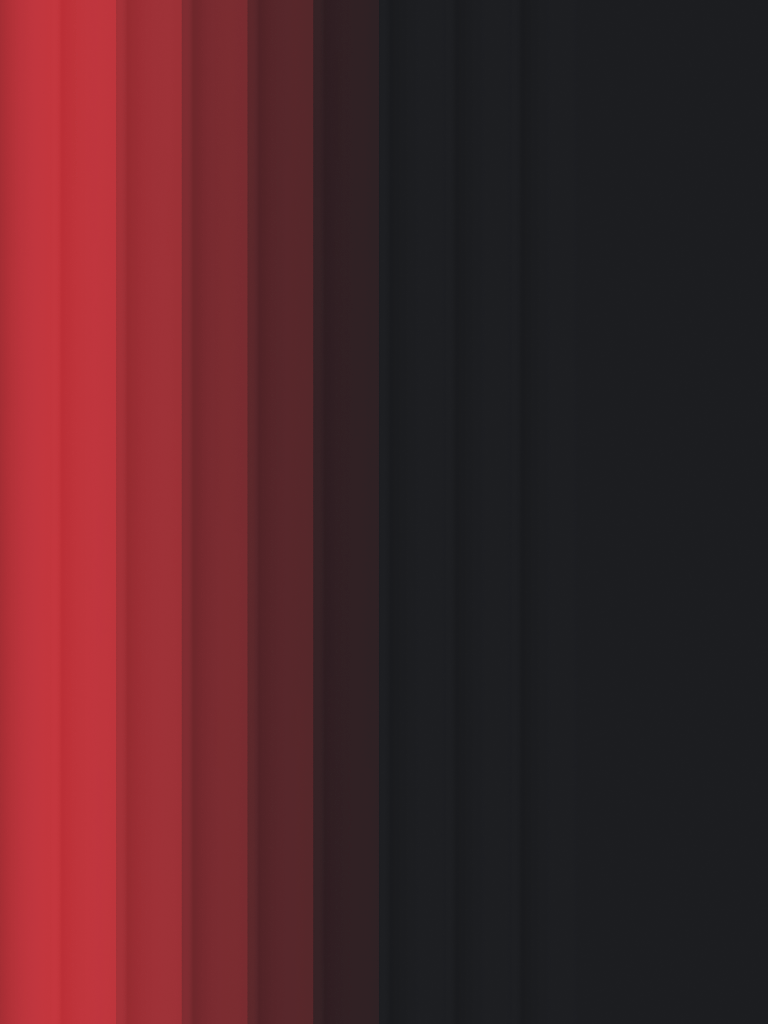
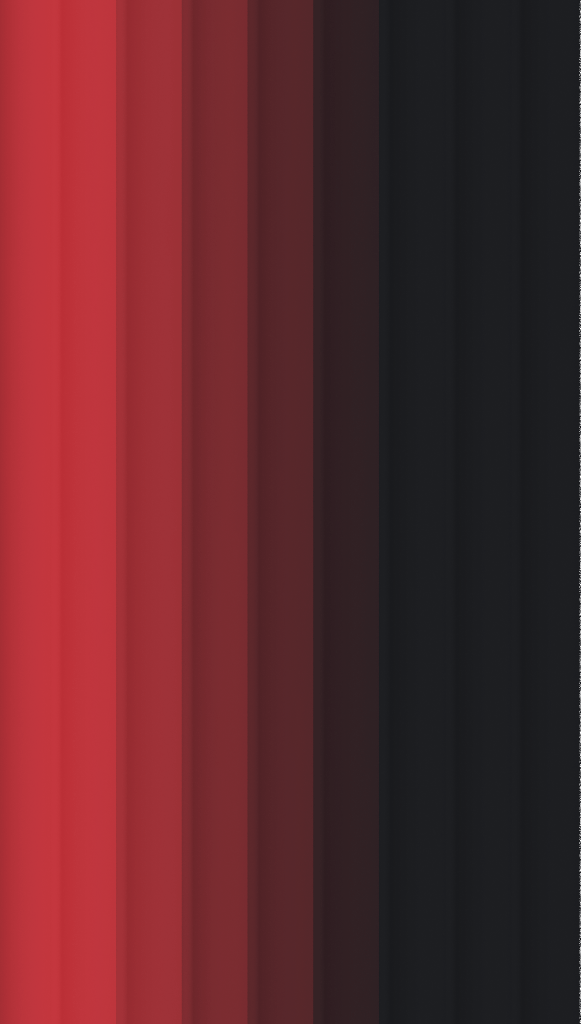
changing bg pictures and editing css

diff --git a/src/css/hero.css b/src/css/hero.css
@@ -36,10 +36,7 @@ box-sizing: border-box;
   background-repeat: no-repeat;
   background-position: left;
   background-size: 375px 812px;
-  background-repeat: no-repeat;
-  background-position: center;
   max-width: 1440px;
-  background-size: cover;
   max-width: 100%;
 }
 @media screen and (max-width: 400px) {
@@ -163,9 +160,8 @@ text-shadow: 0 4px 4px 0 rgba(0, 0, 0, 0.25);
     background-position: left;
     background-size: 768px 1024px;
     background-repeat: no-repeat;
-      background-position: center;
+      background-position: left;
       max-width: 1440px;
-      background-size: cover;
       margin: 0 auto;
   }
 
@@ -253,12 +249,8 @@ screen and (min-device-pixel-ratio: 2) and (min-width: 768px) {
     background: var(--bg-color);
     background-image: var(--bg-d-image);
     background-repeat: no-repeat;
-    background-position: center;
-    background-size: cover;
-    background-repeat: no-repeat;
-      background-position: center;
+      background-position: left;
       max-width: 1440px;
-      background-size: cover;
       margin: 0 auto;
       max-width: 100%;
   }
